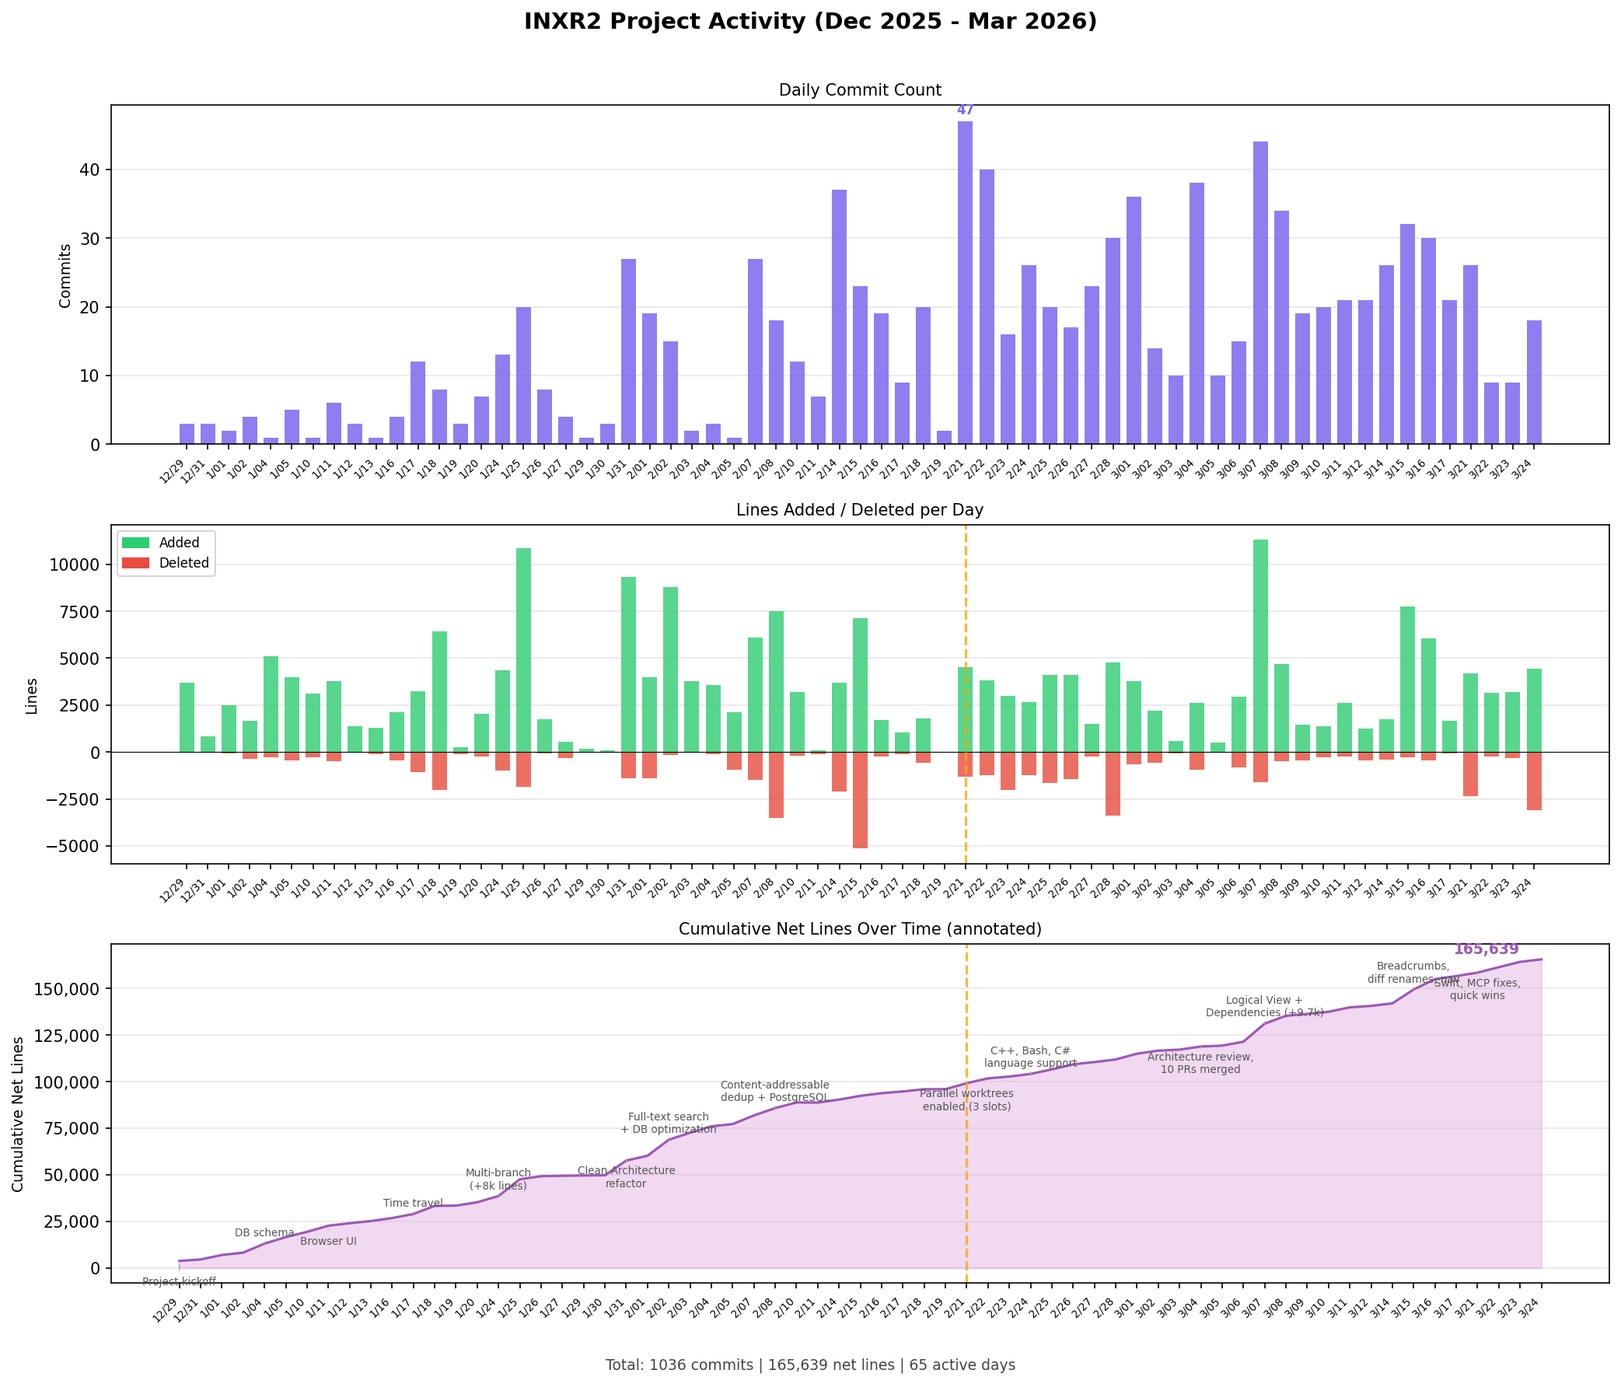
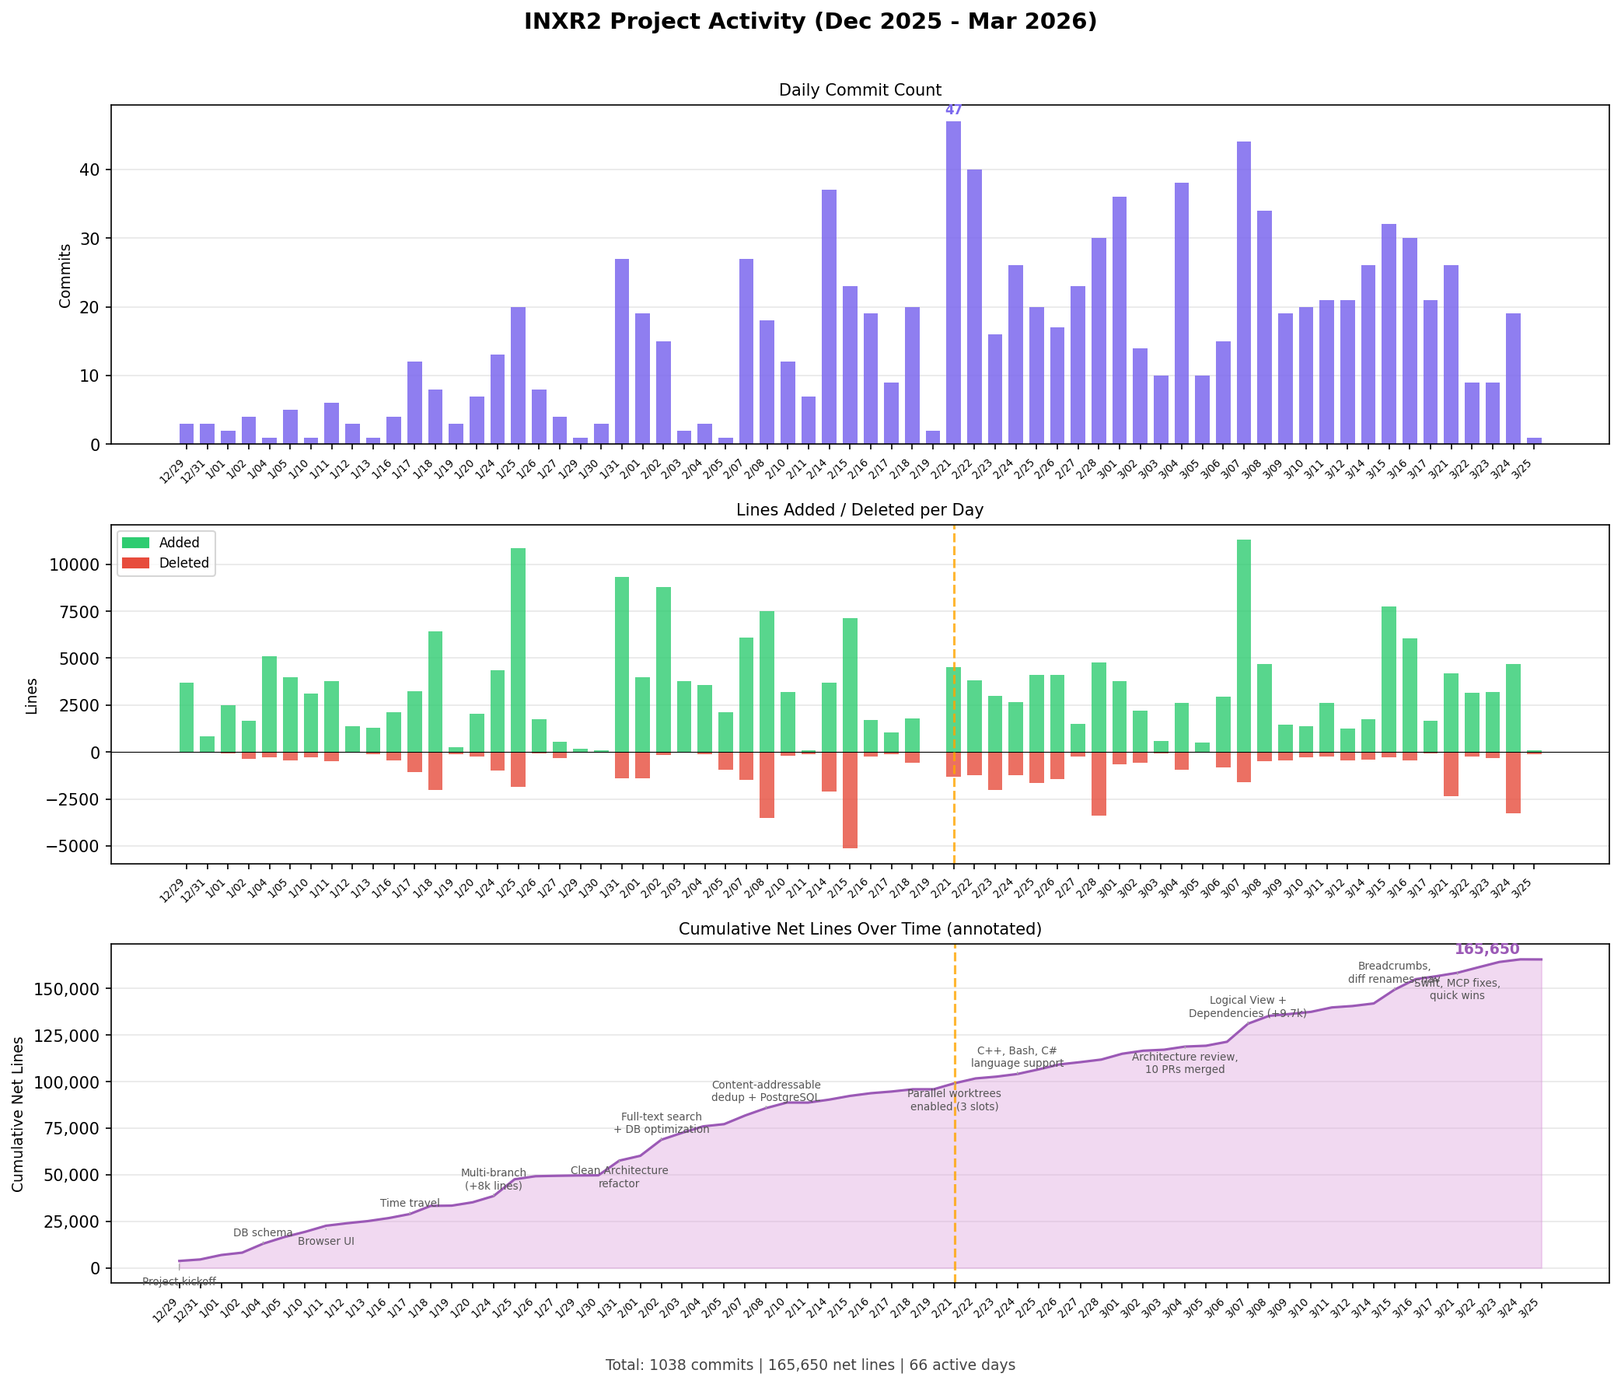
docs: improve MCP tool descriptions, README, and CLAUDE.md guidance
- Add indexing model overview, Start Here workflows, and use-vs-grep table to mcp-server/README.md
- Document three previously undocumented tools: get_file_structure, get_change_impact, explain_symbol
- Improve all eight TOOL_DESCRIPTION strings with when-to-use guidance and cross-tool references
- Update CLAUDE.md with index staleness check ritual, worktree gap note, when-NOT-to-use rules, and structured MCP reporting format
- Correct activity-summary.md: Mar 24 19 commits (was 18), add missing Mar 25 entry; totals now 1,038 commits / 66 active days / 165,650 net lines
- Regenerate project-activity.png with corrected data

diff --git a/mcp-server/src/tools/search_code.py b/mcp-server/src/tools/search_code.py
@@ -12,10 +12,13 @@ from src.urls import build_browse_url
 TOOL_NAME = "search_code"
 
 TOOL_DESCRIPTION = (
-    "Full-text or regex search across all indexed repositories. "
-    "Search code content, comments, and docstrings. "
-    "Supports keyword, phrase, and regex modes. "
-    "Use source_only=true to exclude documentation and config files."
+    "Full-text or regex search across all indexed file body content. "
+    "Use this when searching for text patterns, string literals, comments, or "
+    "anything that is not a named symbol definition or reference — for those, "
+    "search_symbols or find_references are faster and more precise. "
+    "Supports keyword (default), phrase, and regex modes. "
+    "Use source_only=true to exclude test, doc, and config files. "
+    "Results are deduplicated — each file/line appears at most once."
 )
 
 # File extensions considered non-source (docs, config, data files).

diff --git a/mcp-server/src/tools/explain_symbol.py b/mcp-server/src/tools/explain_symbol.py
@@ -14,9 +14,11 @@ TOOL_NAME = "explain_symbol"
 TOOL_DESCRIPTION = (
     "Get rich context about a symbol in one call: definition location, docstring, "
     "signature, and references grouped by type (imports, calls, type annotations, etc.). "
-    "Shows up to 500 references total and up to 5 per type in the output. "
-    "Ideal for understanding what a symbol is and how it's used across the codebase. "
-    "Use this instead of calling search_symbols + find_references separately."
+    "Use this as the first tool when encountering an unfamiliar symbol — it replaces "
+    "calling search_symbols + find_references separately. "
+    "Shows up to 5 references per type in the summary, 500 total. "
+    "The branch parameter filters references only; it does not affect the definition lookup. "
+    "Requires the exact symbol name — use search_symbols first if unsure of the name."
 )
 
 TOOL_SCHEMA: dict[str, Any] = {

diff --git a/mcp-server/src/tools/search_symbols.py b/mcp-server/src/tools/search_symbols.py
@@ -13,8 +13,12 @@ TOOL_NAME = "search_symbols"
 
 TOOL_DESCRIPTION = (
     "Search for symbol definitions (functions, classes, methods, variables) "
-    "by name across all indexed repositories. Supports fuzzy matching. "
-    "Use this to discover symbols without knowing their exact name."
+    "by name across all indexed repositories. Results come from the pre-parsed "
+    "semantic index — this finds actual definitions, not string matches in comments "
+    "or docs. Supports fuzzy matching so you can search without knowing the exact name. "
+    "Only indexed branches are searchable; files added in un-indexed branches will not appear. "
+    "If you already know the exact symbol name, prefer explain_symbol for richer context "
+    "in a single call."
 )
 
 TOOL_SCHEMA: dict[str, Any] = {

diff --git a/mcp-server/src/tools/get_file_structure.py b/mcp-server/src/tools/get_file_structure.py
@@ -14,8 +14,10 @@ TOOL_DESCRIPTION = (
     "Get a token-efficient symbol structure overview of a file. "
     "Returns a two-level indented view of structural symbols (classes, functions, "
     "methods, properties, etc.) without the full source code — top-level symbols "
-    "with their direct children (e.g. methods under a class). Useful for "
-    "understanding a file's structure before reading it in detail."
+    "with their direct children (e.g. methods under a class). "
+    "Use this before reading a file to decide which parts are relevant, "
+    "or to confirm a file's public API without fetching the full content. "
+    "Variables, constants, and fields are excluded to keep output concise."
 )
 
 # Exclude variable-like and field-like kinds; keep everything structural.

diff --git a/mcp-server/src/tools/find_references.py b/mcp-server/src/tools/find_references.py
@@ -14,8 +14,10 @@ TOOL_NAME = "find_references"
 TOOL_DESCRIPTION = (
     "Find all usages of a symbol across all indexed repositories. "
     "Returns cross-repo references including imports, calls, type annotations, "
-    "and other usages. This is useful for understanding how a function, class, "
-    "or variable is used across the codebase."
+    "and other usages — results come from the semantic index, not text search. "
+    "Use ref_type to narrow results (e.g. 'call' for callers only, 'type_annotation' "
+    "for type-checking impact). If you need both the definition and references, "
+    "use explain_symbol instead — it returns both in one call."
 )
 
 TOOL_SCHEMA: dict[str, Any] = {

diff --git a/mcp-server/src/tools/go_to_definition.py b/mcp-server/src/tools/go_to_definition.py
@@ -14,8 +14,10 @@ TOOL_NAME = "go_to_definition"
 TOOL_DESCRIPTION = (
     "Jump to the definition of a symbol. Works across repositories. "
     "Returns the file path, line number, signature, and docstring of the "
-    "symbol definition. Useful for navigating to where a function, class, "
-    "or variable is defined."
+    "symbol definition. Use when you know the exact name and want to locate "
+    "where it is defined. If the symbol name is ambiguous (exists in multiple "
+    "repos or files), use file_path or repository to narrow the result. "
+    "If you also want to see how the symbol is used, use explain_symbol instead."
 )
 
 TOOL_SCHEMA: dict[str, Any] = {

diff --git a/mcp-server/src/tools/get_change_impact.py b/mcp-server/src/tools/get_change_impact.py
@@ -16,7 +16,10 @@ TOOL_DESCRIPTION = (
     "Analyze the change impact of modifying a symbol: which files directly depend "
     "on it, grouped by type (source, test, config). "
     "Answers 'If I modify this symbol, what else needs to change?' "
-    "Use depth=2 to include indirect (transitive) dependents."
+    "Call this before changing any type signature, interface, or public API. "
+    "Returns one level of dependents by default (direct references only). "
+    "Use depth=2 for transitive dependents, but expect more noise. "
+    "Does not trace through dynamic dispatch or runtime lookups."
 )
 
 TOOL_SCHEMA: dict[str, Any] = {

diff --git a/mcp-server/src/tools/list_repositories.py b/mcp-server/src/tools/list_repositories.py
@@ -13,7 +13,10 @@ TOOL_DESCRIPTION = (
     "List all indexed repositories and their available branches. "
     "Use this to discover what repositories and branches are available "
     "before querying with other tools. Only shows branches that have "
-    "been indexed (have data available)."
+    "been indexed — branches that exist in git but have never been indexed "
+    "will not appear. Use detail=true to see commit counts and last-indexed "
+    "commit SHA, which lets you verify whether the index is current before "
+    "relying on results."
 )
 
 TOOL_SCHEMA: dict[str, Any] = {

diff --git a/mcp-server/README.md b/mcp-server/README.md
@@ -2,6 +2,49 @@
 
 MCP (Model Context Protocol) server that exposes INXR2's code intelligence as tools for AI assistants (Claude Desktop, Cursor, etc.).
 
+## How INXR2 Indexing Works
+
+INXR2 pre-parses every file in every indexed repository using Tree-sitter and stores the results in PostgreSQL. This means:
+
+- **Symbol queries are instant** — no scanning, just index lookups.
+- **Results are semantic** — `search_symbols` finds a class definition, not the string `"class Foo"` in comments.
+- **Cross-repo by default** — references and definitions span all indexed repositories in one call.
+- **Temporal** — every query can be scoped to a specific commit or branch.
+
+**What is indexed:** Symbols (definitions), references (usages), file metadata, and full-text content for `search_code`. The index reflects the state at the last `inxr2 index` run — it is not a live file watcher.
+
+**When to use INXR2 tools vs. Grep/Read:**
+
+| Task | Use |
+|------|-----|
+| Find where a class/function is defined | `go_to_definition` or `search_symbols` |
+| Find all callers of a function | `find_references` |
+| Understand a file's structure before reading it | `get_file_structure` |
+| See what breaks if I change a symbol | `get_change_impact` |
+| Find a string pattern, regex, or comment text | `search_code` |
+| Read a file you've already located | Grep/Read (skip MCP) |
+| Navigate files you added in a worktree branch | Grep/Read (not indexed) |
+
+## Start Here
+
+Three common workflows:
+
+**Audit (understand unfamiliar code):**
+1. `list_repositories` — see what's indexed
+2. `search_symbols` — find the entry point or key class
+3. `explain_symbol` — get definition + all usages in one call
+4. `get_file_structure` — survey a file before reading it
+
+**Refactor (change a type or interface):**
+1. `get_change_impact` — map every direct dependent before touching anything
+2. `find_references` — drill into a specific reference type (e.g. `type_annotation`)
+3. `go_to_definition` — jump to the definition to read context
+
+**Navigate (trace a call chain):**
+1. `go_to_definition` — start at the symbol
+2. `find_references` — find callers
+3. Repeat from step 1 on each caller
+
 ## Tools
 
 ### `list_repositories`
@@ -45,7 +88,7 @@ Jump to the definition of a symbol (works cross-repo).
 | `commit` | string | no | Specific commit hash (requires `repository`) |
 
 ### `search_code`
-Full-text or regex search across all indexed repos.
+Full-text or regex search across all indexed repos. Searches file body content — useful for finding string literals, patterns, comments, or any text that isn't a symbol definition or reference.
 
 | Parameter | Type | Required | Description |
 |-----------|------|----------|-------------|
@@ -53,9 +96,75 @@ Full-text or regex search across all indexed repos.
 | `repository` | string | no | Filter to a specific repository |
 | `mode` | string | no | `keyword` (default), `phrase`, or `regex` |
 | `extensions` | string | no | Comma-separated file extensions (e.g. `py,ts`) |
+| `source_only` | boolean | no | Exclude test files from results (default: false) |
 | `limit` | integer | no | Max results (default 20, max 100) |
 | `branch` | string | no | Branch to search in (defaults to latest indexed) |
 | `commit` | string | no | Specific commit hash (overrides branch, requires `repository`) |
+
+Example — find all places a deprecated constant is referenced in source files:
+```python
+asyncio.run(call("search_code", {
+    "query": "LEGACY_API_KEY",
+    "repository": "inxr2",
+    "source_only": True
+}))
+# → 3 matches: config/settings.py:14, adapters/api/auth.py:31, tests/…
+```
+
+### `get_file_structure`
+Get a token-efficient symbol overview of a file — classes, functions, methods, and their children — without the full source code. Useful for surveying a file's shape before deciding what to read.
+
+| Parameter | Type | Required | Description |
+|-----------|------|----------|-------------|
+| `file_path` | string | yes | File path within the repository (e.g. `src/inxr2/domain/entities/symbol.py`) |
+| `repository` | string | yes | Repository name |
+| `branch` | string | no | Branch to search in (defaults to latest indexed) |
+| `commit` | string | no | Specific commit hash (overrides branch) |
+| `include_signatures` | boolean | no | Include parameter lists in symbol names (default: true) |
+| `include_docstrings` | boolean | no | Include first line of docstrings (default: false) |
+
+### `get_change_impact`
+Analyze what needs to change when a symbol is modified: which files directly depend on it, grouped by type (source, test, config). Use before touching any type signature or interface.
+
+Returns all symbols that **directly** reference the queried symbol — one level deep by default. Use `depth=2` for transitive dependents, but expect more noise.
+
+| Parameter | Type | Required | Description |
+|-----------|------|----------|-------------|
+| `name` | string | yes | Symbol name to analyze (e.g. `DatabaseConnection`) |
+| `repository` | string | yes | Repository name |
+| `branch` | string | no | Branch to search in (defaults to latest indexed) |
+| `commit` | string | no | Specific commit hash (overrides branch) |
+| `depth` | integer | no | Transitive dependency depth (default: 1, max: 2) |
+
+Example output:
+```
+get_change_impact "SymbolRepository" → 12 direct dependents across 5 files
+  source: adapters/persistence/postgres_symbol_repo.py, application/use_cases/…
+  test:   tests/integration/…, tests/unit/…
+```
+
+### `explain_symbol`
+Rich context about a symbol in one call: definition location, docstring, signature, and references grouped by type (imports, calls, type annotations). Shows up to 500 references total, up to 5 per type in the summary output.
+
+Use this instead of calling `search_symbols` + `find_references` separately. The `branch` parameter filters **references only** — it does not affect the definition lookup.
+
+| Parameter | Type | Required | Description |
+|-----------|------|----------|-------------|
+| `name` | string | yes | Exact symbol name (e.g. `SearchSymbolsUseCase`) |
+| `repository` | string | no | Filter to a specific repository |
+| `branch` | string | no | Filter references by branch (does not affect definition lookup) |
+| `commit` | string | no | Specific commit hash (overrides branch) |
+
+Example output:
+```
+SearchSymbolsUseCase
+  Defined in: src/inxr2/application/use_cases/symbols/search_symbols.py:42
+  Kind: class
+  References: 8 total
+    imports (3): adapters/api/routes/symbols.py, adapters/cli/…, …
+    calls (2): routes/symbols.py:88, routes/symbols.py:102
+    type_annotations (3): …
+```
 
 ### `find_dead_code`
 Find symbol definitions with zero references (potential dead code).

diff --git a/docs/activity-summary.md b/docs/activity-summary.md
@@ -68,21 +68,22 @@
 | 2026-03-21 | 26 | +4,200 | -2,348 | +1,852 | Swift support, GitHub Actions CI |
 | 2026-03-22 | 9 | +3,153 | -227 | +2,926 | Mermaid diagrams in markdown viewer |
 | 2026-03-23 | 9 | +3,199 | -332 | +2,867 | MCP bug fixes, search_code body indexing |
-| 2026-03-24 | 18 | +4,437 | -3,096 | +1,341 | Search dedup, double-load fix, quick wins |
-| **TOTAL** | **1,036** | **~219,000** | **~53,000** | **+165,639** | |
+| 2026-03-24 | 19 | +4,666 | -3,273 | +1,393 | Search dedup, double-load fix, quick wins |
+| 2026-03-25 | 1 | +78 | -119 | -41 | Regression report archival |
+| **TOTAL** | **1,038** | **~219,000** | **~53,000** | **+165,650** | |
 
-- Days active: 65
-- Avg/day: ~16 commits, +3,369 added, +2,548 net
+- Days active: 66
+- Avg/day: ~16 commits, +2,510 net
 
 ## Key Observations
 
-- 165,639 net lines across 1,036 commits over 65 active days
-- ~2,548 net lines/day average
+- 165,650 net lines across 1,038 commits over 66 active days
+- ~2,510 net lines/day average
 - Jan 25 remains the biggest single day by lines added (+10,849)
 - Feb 21 remains the busiest day by commit count (47 commits)
 - Mar 7 remains the biggest net-lines day (+9,701 net)
 - Feb 11 remains the only net-negative day (pure cleanup/deletion)
-- 63 new commits since last summary (973 → 1,036) over 4 active days
+- 65 new commits since last summary (973 → 1,038) over 5 active days
 
 ## Recent Activity (since last summary 2026-03-17)
 
@@ -96,26 +97,27 @@
 - Fix: prevent double tree-load when latestBranchCommit resolves (#410)
 - regression-test skill now saves dated reports to docs/
 - Quick wins: remove low-value tests (#121/#411), split test_api_endpoints.py (#119/#413), add CommitSelect tests (#122/#412), extract symbol converter (#118/#414)
-- 63 new commits over 4 active days (Mar 21–24)
+- MCP tool descriptions and README updated with indexing model, when-to-use guidance, missing tool docs
+- 65 new commits over 5 active days (Mar 21–25)
 - Test count: 2,093 backend + 651 frontend + 141 MCP, all passing
 
-## Commit Breakdown by Type (as of 2026-03-24, 1,036 commits on main)
+## Commit Breakdown by Type (as of 2026-03-25, 1,038 commits on main)
 
 | Category | Commits | % Commits |
 |----------|---------|-----------|
-| bugfix | 478 | 46.1% |
-| merge | 182 | 17.6% |
+| bugfix | 478 | 46.0% |
+| merge | 182 | 17.5% |
 | feature | 137 | 13.2% |
-| docs | 86 | 8.3% |
+| docs | 88 | 8.5% |
 | refactor | 66 | 6.4% |
 | other | 49 | 4.7% |
 | testing | 20 | 1.9% |
 | perf | 10 | 1.0% |
 | chore | 8 | 0.8% |
-| **TOTAL** | **1,036** | **100.0%** |
+| **TOTAL** | **1,038** | **100.0%** |
 
-- 63 new commits since last summary (973 → 1,036) over 4 active days
+- 65 new commits since last summary (973 → 1,038) over 5 active days
 - Feature commits grew from 129 to 137 (+6%) — Swift, Mermaid, search enhancements
-- Docs grew from 72 to 86 — regression reports, regression-test skill
+- Docs grew from 72 to 88 — regression reports, regression-test skill, MCP documentation
 - Testing grew from 17 to 20 — quick wins batch (CommitSelect, test splits, removals)
-- Bug fixes at 46.1% — MCP fixes, search dedup, double-load, sanitization
+- Bug fixes at 46.0% — MCP fixes, search dedup, double-load, sanitization

diff --git a/CLAUDE.md b/CLAUDE.md
@@ -14,7 +14,7 @@ INXR2 is a cross-reference code browser for git repositories, similar to LXR but
 
 When the MCP server is running (`http://localhost:3000`), **use it as the first choice** for exploring the inxr2 codebase — symbol search, reference lookups, definition jumping, and code search. Fall back to direct file reads/grep when MCP doesn't cover the need.
 
-**Available MCP tools:** `list_repositories`, `search_symbols`, `find_references`, `go_to_definition`, `search_code`
+**Available MCP tools:** `list_repositories`, `search_symbols`, `find_references`, `go_to_definition`, `search_code`, `find_dead_code`, `review_helper`, `get_file_structure`, `get_change_impact`, `explain_symbol`
 
 **Calling MCP tools** (via the SSE server at `http://localhost:3000`):
 ```bash
@@ -35,9 +35,27 @@ asyncio.run(call(\"search_symbols\", {\"query\": \"MySymbol\", \"repository\": \
 "'
 ```
 
-Replace `search_symbols` and its args with any tool: `list_repositories`, `find_references`, `go_to_definition`, `search_code`, `find_dead_code`, `review_helper`, `get_file_structure`, `get_change_impact`. Use `localhost:3000` for main; use the worktree's MCP port for worktrees (see port table below).
+Replace `search_symbols` and its args with any tool: `list_repositories`, `find_references`, `go_to_definition`, `search_code`, `find_dead_code`, `review_helper`, `get_file_structure`, `get_change_impact`, `explain_symbol`. Use `localhost:3000` for main; use the worktree's MCP port for worktrees (see port table below).
 
-**Reporting:** Whenever you use an MCP tool during your work, briefly mention it to the user — what tool was used, what you found, and whether it was helpful.
+**Index staleness check:** Before relying on MCP results for source code decisions, verify the index is current:
+```bash
+asyncio.run(call("list_repositories", {"detail": True}))
+# Compare "last_indexed_commit" against: git log main --oneline -1
+```
+Rule: if only docs/test commits are missing, trust the index. If source files are missing (e.g. a new module you're about to reference), fall back to Grep/Read for those files.
+
+**Worktree gap:** The index reflects `main` only. Files you've added or changed in your worktree branch won't be indexed. Use MCP for existing codebase navigation; use Grep/Read for your own changes.
+
+**When NOT to use MCP:**
+- Don't use `search_code` to find open files you already have in context — just read them.
+- Don't use `find_references` to confirm a single known call site — you already know it.
+- Do use `get_change_impact` **before** any type signature or interface change — it maps the blast radius in one call.
+
+**Reporting:** Whenever you use an MCP tool during your work, briefly mention it to the user using this format:
+```
+// inxr2: <tool_name> "<query>" → <summary of result> (<helpful/not helpful>)
+// Example: inxr2: get_change_impact "SymbolRepository" → 12 direct dependents in 5 files (helpful)
+```
 
 ## Critical Development Guidelines
 
